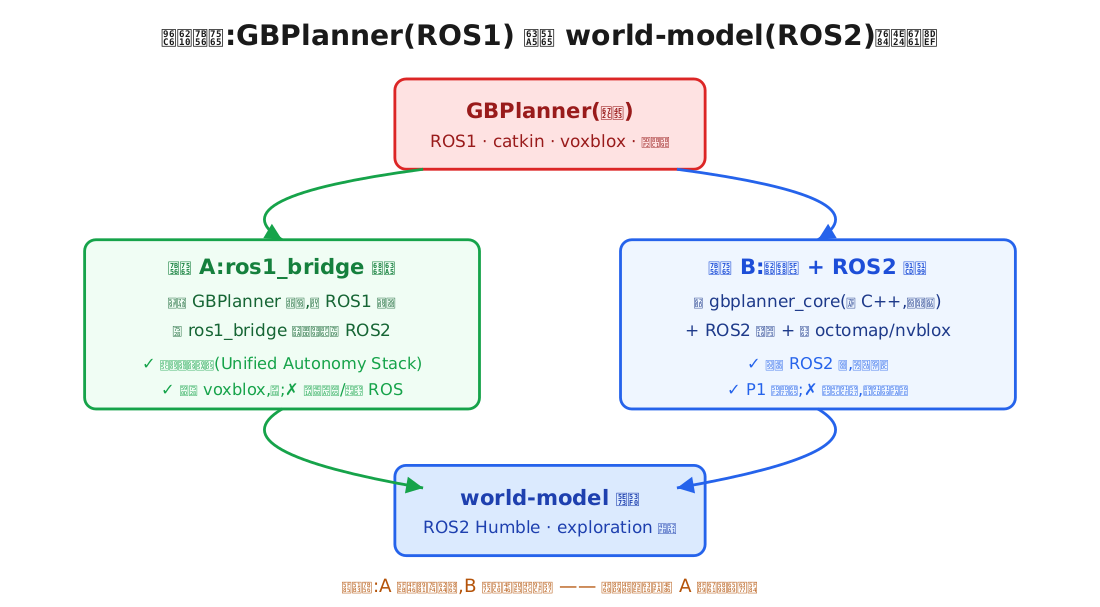
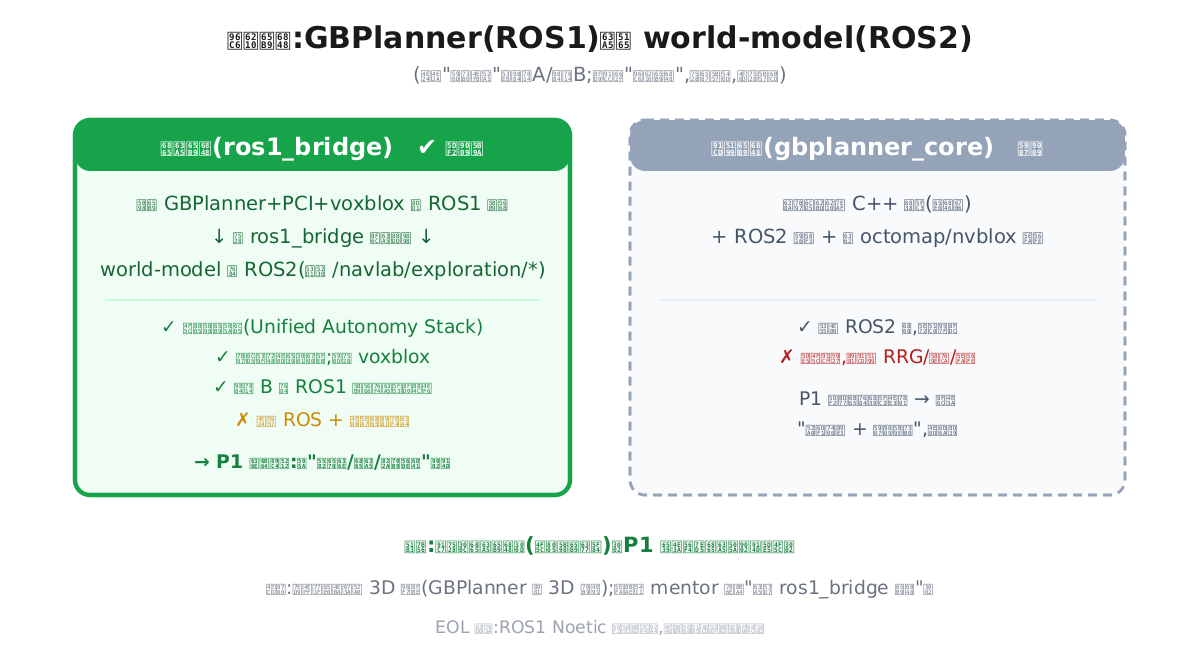
决策:采用桥接方案(ros1_bridge);消除A/B命名歧义;预研B镜像构建成功;P1重规划;加自纠错机制

Changed region(s): [[0.0618, 0.0297, 0.9582, 0.9786]]

diff --git a/TASKS.md b/TASKS.md
@@ -1,32 +1,44 @@
-# 任务台账(进程调度式·防丢机制)
+# 任务台账(进程调度式 · 防丢 + 自纠错机制)
 
-> 这是项目的"调度状态盘",仿操作系统进程表(PCB)。**git 提交后永不丢。**
+> 项目"调度状态盘",仿操作系统进程表(PCB)。git 提交后永不丢。
 
-## 一、机制(最简版,仿 OS 进程调度)
-- **本文件 = 进程表**:每个任务一行,带状态。是磁盘上的权威调度状态。
-- **状态**:⬜就绪 / 🔵运行中 / ⏸阻塞(等构建或等你决策) / ✅完成
-- **规则1 · 检查点**:我每完成一个最小步,就【写盘 + git 提交】→ 任何时刻被打断,已完成部分都在,不丢。
-- **规则2 · 抢占**:你插入紧急任务 = 高优先级抢占。我先把当前任务状态写进本表,处理你的事,再回表接着跑。
-- **规则3 · 恢复**:被打断/新会话后,先读本表 + 最新 git,找"运行中/阻塞"的任务接着干。
-- **规则4 · 后台进程**:长耗时(镜像构建、子模块拉取)放后台跑,完成后回收结果——不阻塞前台。
+## 一、机制
 
-## 二、当前任务表(2026-06-29)
+### 1.1 调度 / 防丢(仿 OS 进程表)
+- 本文件 = 进程表;状态:⬜就绪 / 🔵运行中 / ⏸阻塞 / ✅完成。
+- **检查点**:每完成一最小步 → 写盘 + git 提交 → 任何时刻被打断,已完成部分都在。
+- **抢占**:你插入紧急任务 = 高优先级抢占;我先把当前状态写进本表,处理你的事,再回表续跑。
+- **后台进程**:长任务(镜像构建、子模块拉取)放后台,完成通知,不阻塞前台。
+
+### 1.2 自纠错(防止"我自己出错还发现不了")
+- **文档(md)**:每次更新后自检 →① 不含 base64 等大块乱码;② 引用图片文件都存在;③ 桌面 md 用**绝对路径**引图、README 用相对路径;④ 文件大小正常。不过则修正再提交。
+  - ⚠ 教训:**Typora 不渲染 base64 内嵌图** → 桌面 md 一律绝对路径引 PNG,**禁用 base64**。
+- **代码**:每写一段必须在 WSL **编译 + 跑测试**,全绿才算完成、才提交;不绿不标完成。
+- **每步收尾(四处同步)**:① 更新桌面 md(文字+图)② 跑上述自检 ③ git 提交推送(权威源 / 桌面传送门[自动] / 桌面 md / GitHub 四处一致)。
+
+## 二、命名约定(消除歧义)
+- **预研 A / 预研 B** = 两个**复现任务**(A=复现 world-model,B=复现 GBPlanner)。
+- **集成方案**用文字名:**「桥接方案(ros1_bridge)」(已选定)** / **「重写方案(gbplanner_core)」(备选)**。**不再用字母 A/B 指代方案。**
+
+## 三、当前任务表(2026-06-29)
 | ID | 任务 | 状态 | 备注 |
 |---|---|---|---|
-| 1 | 修复+构建 GBPlanner 参考镜像(预研 B) | 🔵 运行中(后台) | 已修"重复包"bug(改用官方 rosinstall 在工作区根 init);docker build 进行中 |
-| 2 | 深挖 GBPlanner 接 ROS2 的官方做法 | ✅ 完成 | 确认 GBPlanner=ROS1,作者用 **ros1_bridge** 接 ROS2(Unified Autonomy Stack)→ 见第三节 A/B |
-| 3 | 复现 world-model 基线(预研 A) | 🔵 运行中(后台) | 正在拉子模块(ardupilot 等);之后 navlab-sim build 构镜像 → 跑 exploration |
-| 4 | 继续 P1:gbplanner_core 后续模块 | ⏸ 阻塞 | **等你定 A/B 策略**:选 A 则 P1 降为"理解/备选";选 B 则继续深做 |
+| 1 | 预研 B:GBPlanner 参考镜像 | ✅ 完成 | `gbplanner-ref` 镜像**构建成功**(修复重复包后);跑 rmf_sim 看动画为可选下一步 |
+| 2 | 深挖 GBPlanner 接 ROS2 的做法 | ✅ 完成 | 确认 ros1_bridge 官方做法 → 你已选「桥接方案」 |
+| 3 | 预研 A:复现 world-model | 🔵 运行中 | 子模块已拉完;下一步 `navlab-sim build` 构镜像(重型,**动手前会确认**) |
+| 4 | 桥接路线落地(原 P1 重定向) | ⬜ 就绪 | 见第四节 |
 
-## 三、待你决策:集成策略 A vs B(task 2 产出)
-| | 策略 A:ros1_bridge 桥接(**推荐为先**) | 策略 B:抽 gbplanner_core + ROS2 重写 |
-|---|---|---|
-| 做法 | 官方 GBPlanner+PCI+voxblox 跑 ROS1 容器,用 ros1_bridge 接 world-model 的 ROS2 | 把算法抽成纯 C++ 核心 + ROS2 外壳 + 换 octomap/nvblox 建图 |
-| 优点 | **作者官方验证、最快**;算法原版不改;复用 voxblox(顺带解决"错配2") | 单一 ROS2 栈,干净长远,完全可控 |
-| 缺点 | 两套 ROS + 一座桥要维护;ROS1 Noetic 已 EOL(容器里仍可用) | **工作量大**;要重写 RRG/增益/frontier + 建图;行为需对齐原版 |
-| 对 P1 影响 | P1 自写核心降为"加深理解/备选" | P1 是主线,继续深做 |
-| 预研 B 的作用 | **直接成为策略 A 的运行件**(就是这个 ROS1 容器) | 作参考/对照 |
+## 四、决策 & 桥接路线(你已拍板)
+**集成采用「桥接方案(ros1_bridge)」。** 据此原 P1 重新规划为:
+1. 跑通 GBPlanner 的 ROS1 容器(预研 B 的 `gbplanner-ref`),`roslaunch rmf_sim`,确认算法真实 I/O。
+2. 搭 **ros1_bridge**:把 world-model(ROS2)的 3D 点云 + 里程计 → 喂给 GBPlanner(ROS1)期望话题;把 GBPlanner/PCI 输出的路径/航点 → 回流到 ROS2 的 `/navlab/exploration/*`。
+3. **给仿真无人机 iq_quad 加 3D 雷达**(GBPlanner 需 3D 点云;现仅 2D)。
+4. 接 world-model 的 exploration 任务,替换 frontier_lite,过验收闸门。
 
-**我的建议**:这类"把算法落进项目"的任务,通常**先用策略 A 把系统跑通**(作者都这么做),再视需要考虑 B。但这关系到 mentor 对架构的偏好,**建议你和 mentor 确认一句"接受 ros1_bridge 方案吗"**,再定。
+> 已写的 `gbplanner_core`(光线投射+体积增益,测试通过)→ 转为**加深理解 + 备选实现**,不浪费。
+> 📌 建议向 mentor 确认一句"接受 ros1_bridge 方案吗"。
 
-> P1 已写的核心(光线投射+体积增益,测试通过)无论选哪条都不浪费:选 B 是主线,选 A 是加深理解+备选实现。
+## 五、自检记录
+- 2026-06-29 桌面 md:base64 乱码 → 改绝对路径,自检+复检通过(无 base64,20KB)。
+- 2026-06-29 P1 代码:cmake 编译 + ctest **1/1 通过**。
+- 2026-06-29 预研 B:docker build **BUILD_OK**,镜像 `gbplanner-ref`(10.7GB)生成。

diff --git a/README.md b/README.md
@@ -19,7 +19,7 @@
 |---|---|---|---|
 | P0-A | 复现 world-model | 跑通平台,看占位探索怎么工作 | 🔵 已读懂源码,待实跑 |
 | P0-B | 复现 GBPlanner | 单独跑官方算法,看它怎么探索 | ⚪ 环境已备,待跑 |
-| P1 | 抽核心库 | 把算法抽成不依赖框架的 C++ 核心 + 测试 | 🟡 第一块完成(光线投射+体积增益,已编译+测试通过) |
+| P1→桥接 | 桥接路线落地 | 已选桥接方案:搭 ros1_bridge + 适配 + 加 3D 雷达 | 🟡 核心已起步(测试通过),路线改为桥接,见 TASKS.md |
 | P2 | ROS2 节点 | 把核心包成 ROS2 模块,接 world-model 数据 | ⚪ 未开始 |
 | P3 | 编排集成 | 替换 frontier_lite,通过现有验收检查 | ⚪ 未开始 |
 
@@ -41,7 +41,9 @@
 
 ![体积增益演示](images/p1_volume_gain_demo.png)
 
-> 📌 当前还有一个**待决策点**:集成走**策略 A(ros1_bridge,作者官方捷径,快)**还是**策略 B(抽 gbplanner_core 重写,干净长远,P1 已起步)**。详细当日进展见 [notes/进展_2026-06-29.md](notes/进展_2026-06-29.md)。GBPlanner 参考环境(预研 B)正在后台编译。
+> ✅ **已决策(你拍板)**:集成采用「**桥接方案(ros1_bridge)**」——作者官方做法。原 P1 据此重规划为"搭桥 + 适配"工作;已写的 `gbplanner_core` 转为备选/加深理解,不浪费。
+> **命名提醒(消除歧义)**:**预研 A/B = 复现任务**(A=复现 world-model,B=复现 GBPlanner);**桥接/重写 = 集成方案**(不再用字母)。
+> ✅ **预研 B 参考镜像已构建成功**(`gbplanner-ref`,GBPlanner 的 ROS1 环境可复现)。任务进度看板见 [TASKS.md](TASKS.md);当日进展见 [notes/进展_2026-06-29.md](notes/进展_2026-06-29.md)。
 
 ---
 

diff --git a/notes/进展_2026-06-29.md b/notes/进展_2026-06-29.md
@@ -51,3 +51,10 @@
 1. **先定策略 A 还是 B**(这决定 P1 要不要继续深写)。
 2. 预研 B 编译完 → 看官方算法实际行为。
 3. 预研 A(复现 world-model,1–2 小时重型构建)按需启动。
+
+## 六、更新(决策 + 命名 + 结果,2026-06-29 晚)
+- ✅ **决策(用户拍板)**:集成采用「**桥接方案(ros1_bridge)**」。原 P1 重规划为:跑通 gbplanner-ref → 搭 ros1_bridge 适配 world-model 话题/数据 → 给 iq_quad 加 3D 雷达 → 接 exploration 替换 frontier_lite。`gbplanner_core` 转备选。
+- 🏷 **命名消歧**:预研 A/B = 复现任务;桥接/重写 = 集成方案(本文上文表格里的"策略 A/B"即指此,现统一改称桥接/重写)。
+- ✅ **预研 B 构建成功**:修复 Dockerfile 重复包后,`docker build` BUILD_OK,镜像 `gbplanner-ref`(10.7GB)生成 → GBPlanner 的 ROS1 环境可复现。
+- ✅ **预研 A 子模块**已全部拉完(exit 0);下一步构建镜像集(重型,动手前确认)。
+- 🛠 **自纠错**:桌面 md 的 base64 乱码已修(改绝对路径引图,自检通过);见 TASKS.md 第 1.2 节机制。
